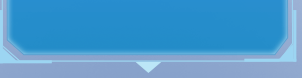
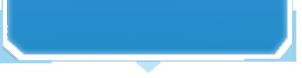
style(ui): 重构弹窗样式，使用分段背景图优化弹窗外观
1.  将弹窗拆分为顶部、主体、底部三部分，使用对应背景图实现圆角和渐变效果
2.  调整弹窗内边距和排版，优化弹窗内容的显示位置
3.  更新弹窗文字颜色为统一白色，调整标题和内容区域的间距样式
4.  移除旧的固定背景和边框样式，改用背景裁剪实现更灵活的布局

diff --git a/assets/css/screen.css b/assets/css/screen.css
@@ -915,15 +915,45 @@ body {
 .zone-popup {
   position: absolute;
   z-index: 100;
-  display: none;
   min-width: 220px;
-  padding: 12px;
-  background: rgba(10, 40, 80, 0.95);
-  border: 1px solid rgba(76, 181, 255, 0.5);
-  border-radius: 8px;
-  box-shadow: 0 0 20px rgba(50, 200, 255, 0.3);
+  /* 给顶部/底部伪元素留出空间 */
+  padding: 20px 0px 30px;
+  box-sizing: border-box;
+
+  /* 中间只保留可重复主体背景，并限制高度范围 */
+  background: url('../images/popup-card-thin.png') repeat-y center;
+  background-size: 100% auto;
+  /* 关键：把背景裁剪到内容区，伪元素的区域不显示中间背景 */
+  background-clip: content-box;
+
+  color: #fff;
 }
 
+/* 顶部背景 */
+.zone-popup::before {
+  content: '';
+  position: absolute;
+  left: 0;
+  right: 0;
+  top: 0;
+  height: 20.5px;
+  background: url('../images/popup-card-wide.png') no-repeat top center;
+  background-size: 100% auto;
+  z-index: 1;
+}
+
+/* 底部背景 */
+.zone-popup::after {
+  content: '';
+  position: absolute;
+  left: 0;
+  right: 0;
+  bottom: 0;
+  height: 30px;
+  background: url('../images/popup-card-tall.png') no-repeat bottom center;
+  background-size: 100% auto;
+  z-index: 1;
+}
 .zone.is-active.occupied .zone-popup {
   display: block;
 }
@@ -984,9 +1014,9 @@ body {
 .popup-title {
   padding-bottom: 8px;
   margin-bottom: 8px;
-  border-bottom: 1px solid rgba(76, 181, 255, 0.3);
-  color: #38a7ff;
+  color: #fff;
   font-size: 14px;
+  padding: 0px 20px;
   font-weight: 600;
 }
 
@@ -994,17 +1024,21 @@ body {
   display: flex;
   flex-direction: column;
   gap: 6px;
+  padding: 0 40px;
+  padding-top: 5px;
+  margin: 0 10px;
+  border-top: 1px solid rgba(76, 181, 255, 0.3);
 }
 
 .popup-row {
   display: flex;
   justify-content: space-between;
-  color: #a8d7f5;
+  color: #fff;
   font-size: 12px;
 }
 
 .popup-row span:first-child {
-  color: #7fbce8;
+  color: #fff;
 }
 
 .popup-bar {